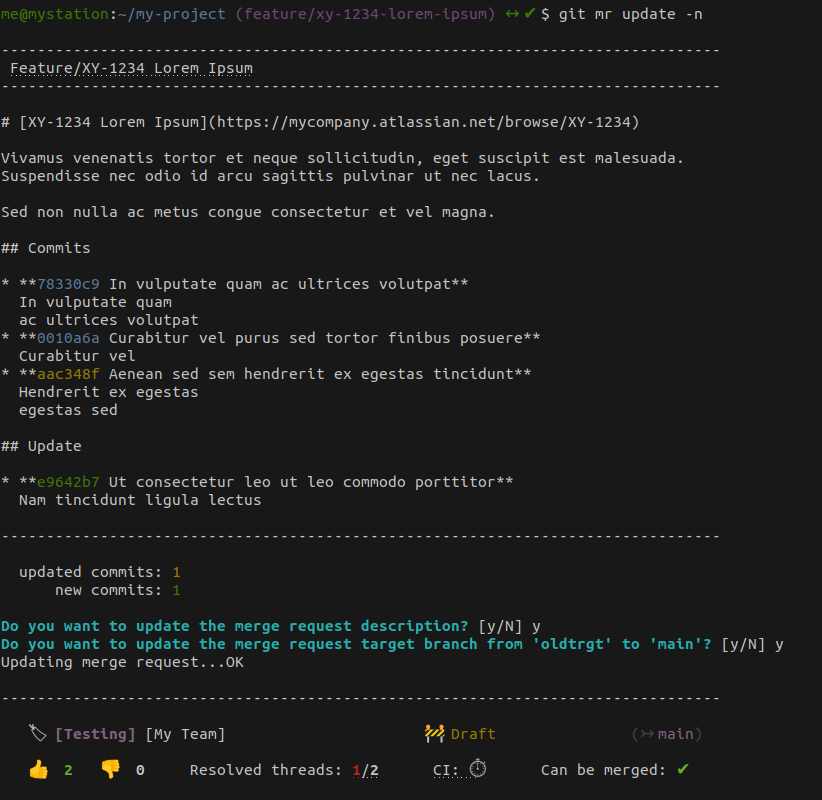
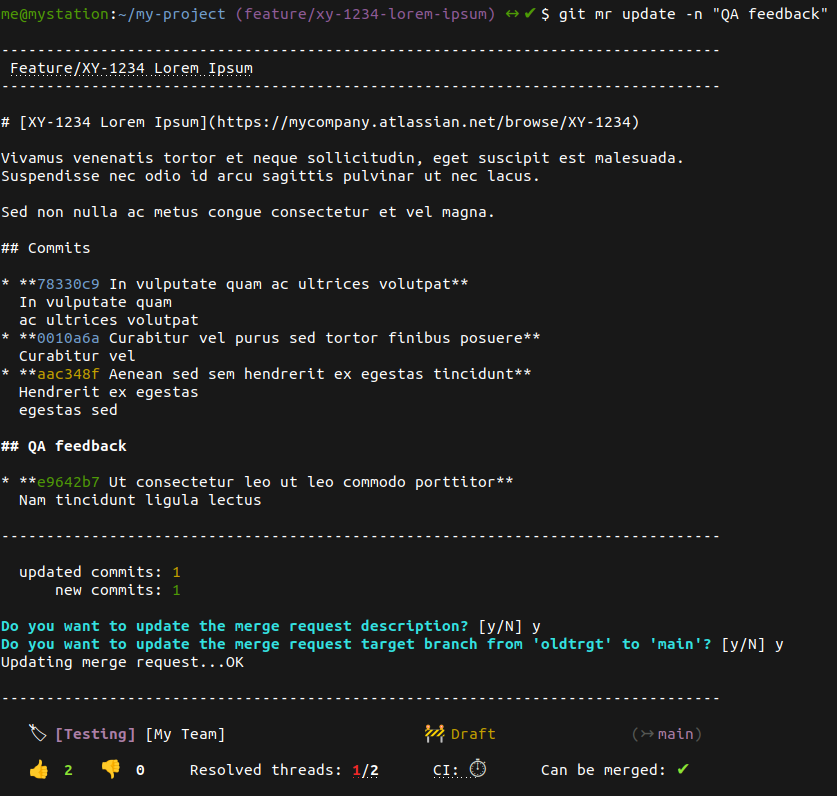
mr update - Allow custom section separator title

diff --git a/README.md b/README.md
@@ -79,7 +79,7 @@ Prepares a merge request description, with link to Jira ticket and current branc
 #### Command-specific options
 
 * `git mr update`
-  * `-n`, `--new-section`  
+  * `-n`, `--new-section` `[NEW_SECTION_TITLE]`  
     Add new section in description for new commits.
 
 * `git mr menu update`
